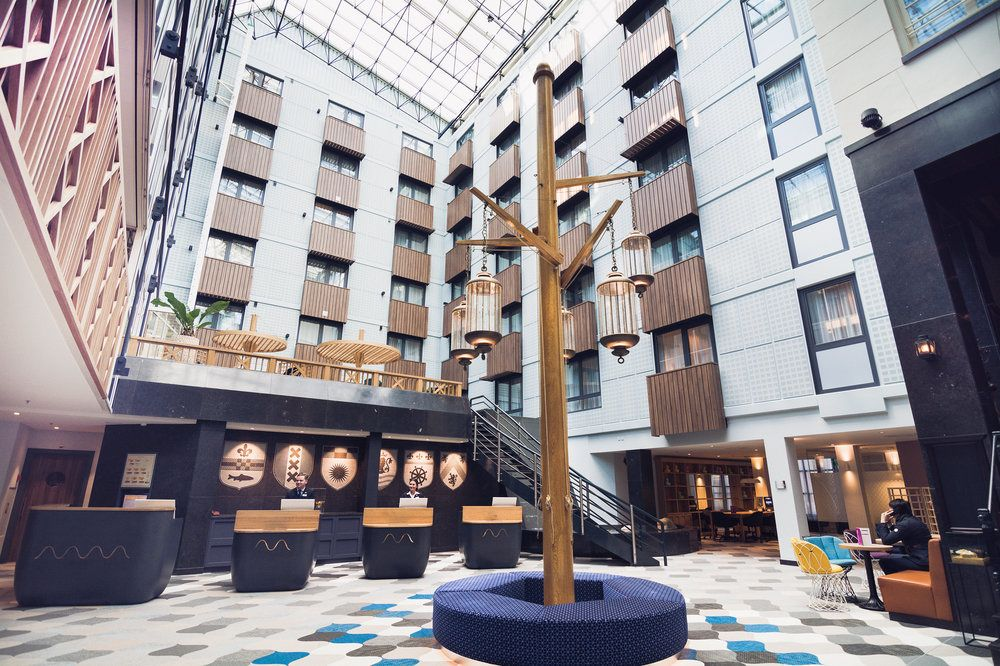
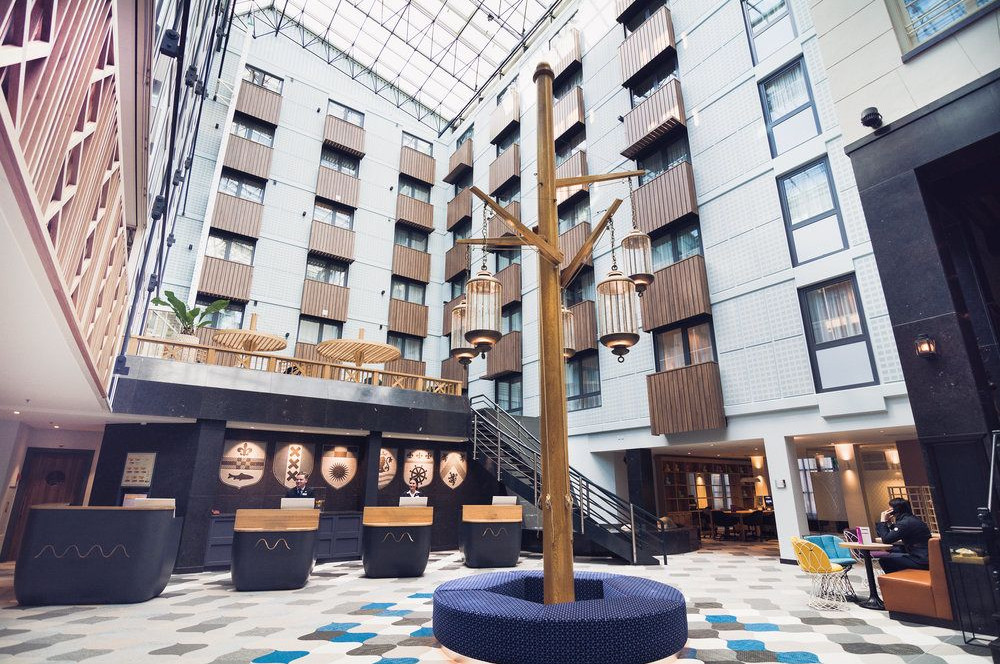
Fixed different sized in top slider

diff --git a/index.html b/index.html
@@ -196,7 +196,7 @@ height="0" width="0" style="display:none;visibility:hidden"></iframe></noscript>
             </div>
           </div>
 	  <div class="carousel-item">
-            <img class="d-block w-100" src="https://pbs.twimg.com/media/DG9oSlwXcAAgNd6.jpg" alt="Fourth slide" style="filter:hue-rotate(90deg)">
+            <img class="d-block w-100" src="assets/img/slider/training.jpg" alt="Fourth slide" style="filter:hue-rotate(90deg)">
             <div class="carousel-caption d-md-block">
               <p class="fadeInUp wow" data-wow-delay=".6s">Become an expert with the</p>
               <h1 class="wow bounceIn heading" data-wow-delay=".7s">Advanced Training</h1>
